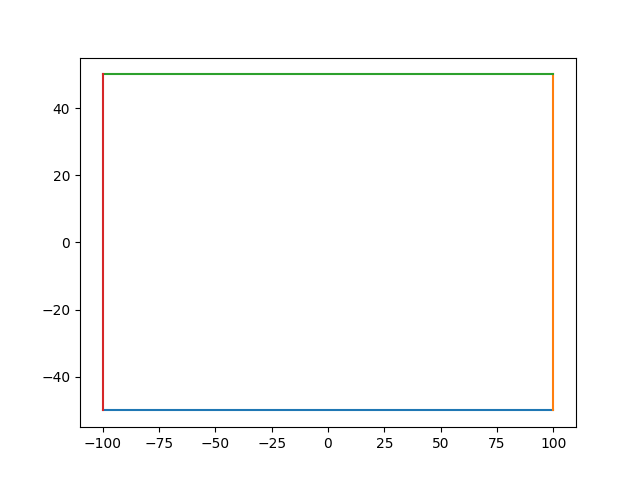
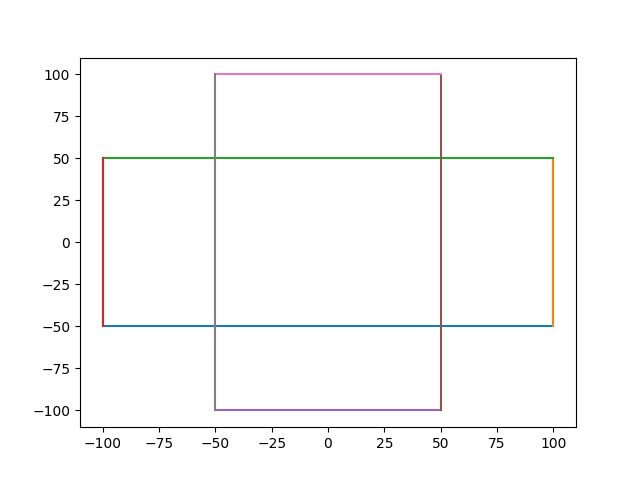
Reworking structure

diff --git a/main.py b/main.py
@@ -40,13 +40,20 @@ class Region:
         self.bcHorizontal = bc[1]
         self.edges = get_edges_from_region(self)
 
+    def plot(self):
+        for edge in self.edges:
+            edge.plot()
+
 class Point:
     def __init__(self, x, y):
         self.x = x
         self.y = y
 
+    def __eq__(self, other):
+        return self.x == other.x and self.y == other.y
+
     def __str__(self):
-        return '(' + str(x) + ', ' + str(y) + ')'
+        return '(' + str(self.x) + ', ' + str(self.y) + ')'
 
 class Vector:
     def __init__(self, point, xmag, ymax):
@@ -64,6 +71,12 @@ class Edge:
         self.a = p2.y - p1.y
         self.b = p1.x - p2.x
         self.c = self.a * p1.x + self.b * p1.y
+
+    def __str__(self):
+        return str(self.p1) + "---" + str(self.p2)
+
+    def plot(self):
+        plt.plot((self.p1.x, self.p2.x), (self.p1.y, self.p2.y))
 
 def get_bounds(world):
     """Returns the bounds of the playable world to get a range of values for generating initial electrons.
@@ -109,10 +122,10 @@ def generate_electron(id, world, bounds):
     return [id, x, y, vx, vy, -1, -1]
 
 def get_edges_from_region(obj):
-    l1 = ((obj.min_x, obj.max_x), (obj.min_y, obj.min_y))
-    l2 = ((obj.max_x, obj.max_x), (obj.max_y, obj.min_y))
-    l3 = ((obj.min_x, obj.max_x), (obj.max_y, obj.max_y))
-    l4 = ((obj.min_x, obj.min_x), (obj.max_y, obj.min_y))
+    l1 = Edge(Point(obj.min_x, obj.min_y), Point(obj.max_x, obj.min_y))
+    l2 = Edge(Point(obj.max_x, obj.max_y), Point(obj.max_x, obj.min_y))
+    l3 = Edge(Point(obj.min_x, obj.max_y), Point(obj.max_x, obj.max_y))
+    l4 = Edge(Point(obj.min_x, obj.max_y), Point(obj.min_x, obj.min_y))
     return [l1, l2, l3, l4]
 
 def get_intesection_of_lines(e1, e2):
@@ -122,19 +135,39 @@ def get_intesection_of_lines(e1, e2):
     x = (e2.b * e1.c - e1.b * e2.c)/det
     y = (e1.a * e2.c - e2.a * e1.c)/det
     p = Point(x, y)
-    if x > min([e1.p1.x, e1.p2.x]) and x < max([e1.p1.x, e1.p2.x]) and y > min([e1.p1.y, e1.p2.y]) and y < max([e1.p1.y, e1.p2.y]) and x > min([e2.p1.x, e2.p2.x]) and x < max([e2.p1.x, e2.p2.x]) and y > min([e2.p1.y, e2.p2.y]) and y < max([e2.p1.y, e2.p2.y]):
+    if x >= min([e1.p1.x, e1.p2.x]) and x <= max([e1.p1.x, e1.p2.x]) and y >= min([e1.p1.y, e1.p2.y]) and y <= max([e1.p1.y, e1.p2.y]) and x >= min([e2.p1.x, e2.p2.x]) and x <= max([e2.p1.x, e2.p2.x]) and y >= min([e2.p1.y, e2.p2.y]) and y <= max([e2.p1.y, e2.p2.y]):
         return [IN_RANGE, p]
     return [NOT_IN_RANGE, p]
 
+def get_next_intersection(line, world):
+    all_edges = []
+    for region in world:
+        for edge in region.edges:
+            all_edges.append(edge)
+
+    intersections = []
+    for edge in all_edges:
+        status, point = get_intersection_of_lines(line, edge)
+        if status == IN_RANGE:
+            intersections.apend(point
+
 
 def define_border(world):
-    pass
+    min_x = min([region.min_x for region in world])
+    initial_edge = Edge(Point(0, 0), Point(2 * min_x, 0))
+    border = []
+    over = False
+    while not over:
+        if is_complete(border):
+            over = True
+
 
 
 def set_next_event(electon):
     pass
 
-
+def is_complete(border):
+    if border[0].p1 == border[-1].p2
 
 if __name__ == "__main__":
     world = []
@@ -144,11 +177,16 @@ if __name__ == "__main__":
                         bc=(REFLECT, CONTINUOUS)
                         ))
 
+    world.append(Region(playable=True,
+                        p1=Point(-50, -100),
+                        p2=Point(50, 100),
+                        bc=(REFLECT, CONTINUOUS)
+                        ))
+
     bounds = get_bounds(world)
     state = []
-
-    for e in world[0].edges:
-        plt.plot(e[0], e[1])
+    for region in world:
+        region.plot()
     plt.savefig("test.png")
 
     e1 = Edge(Point(-100, 0), Point(100,0))

diff --git a/mc_sim.py b/mc_sim.py
@@ -1,0 +1,12 @@
+# mc_sim.py
+#
+# Monte Carlo simulation of electrons for ELEC 4700 assignment 1
+# David Lister
+# January 2018
+#
+
+import matplotlib.pyplot as plt
+
+
+if __name__ == "__main__":
+    region = [(-200, -100), (200, -100), (200, 100), (-200, 100)]
